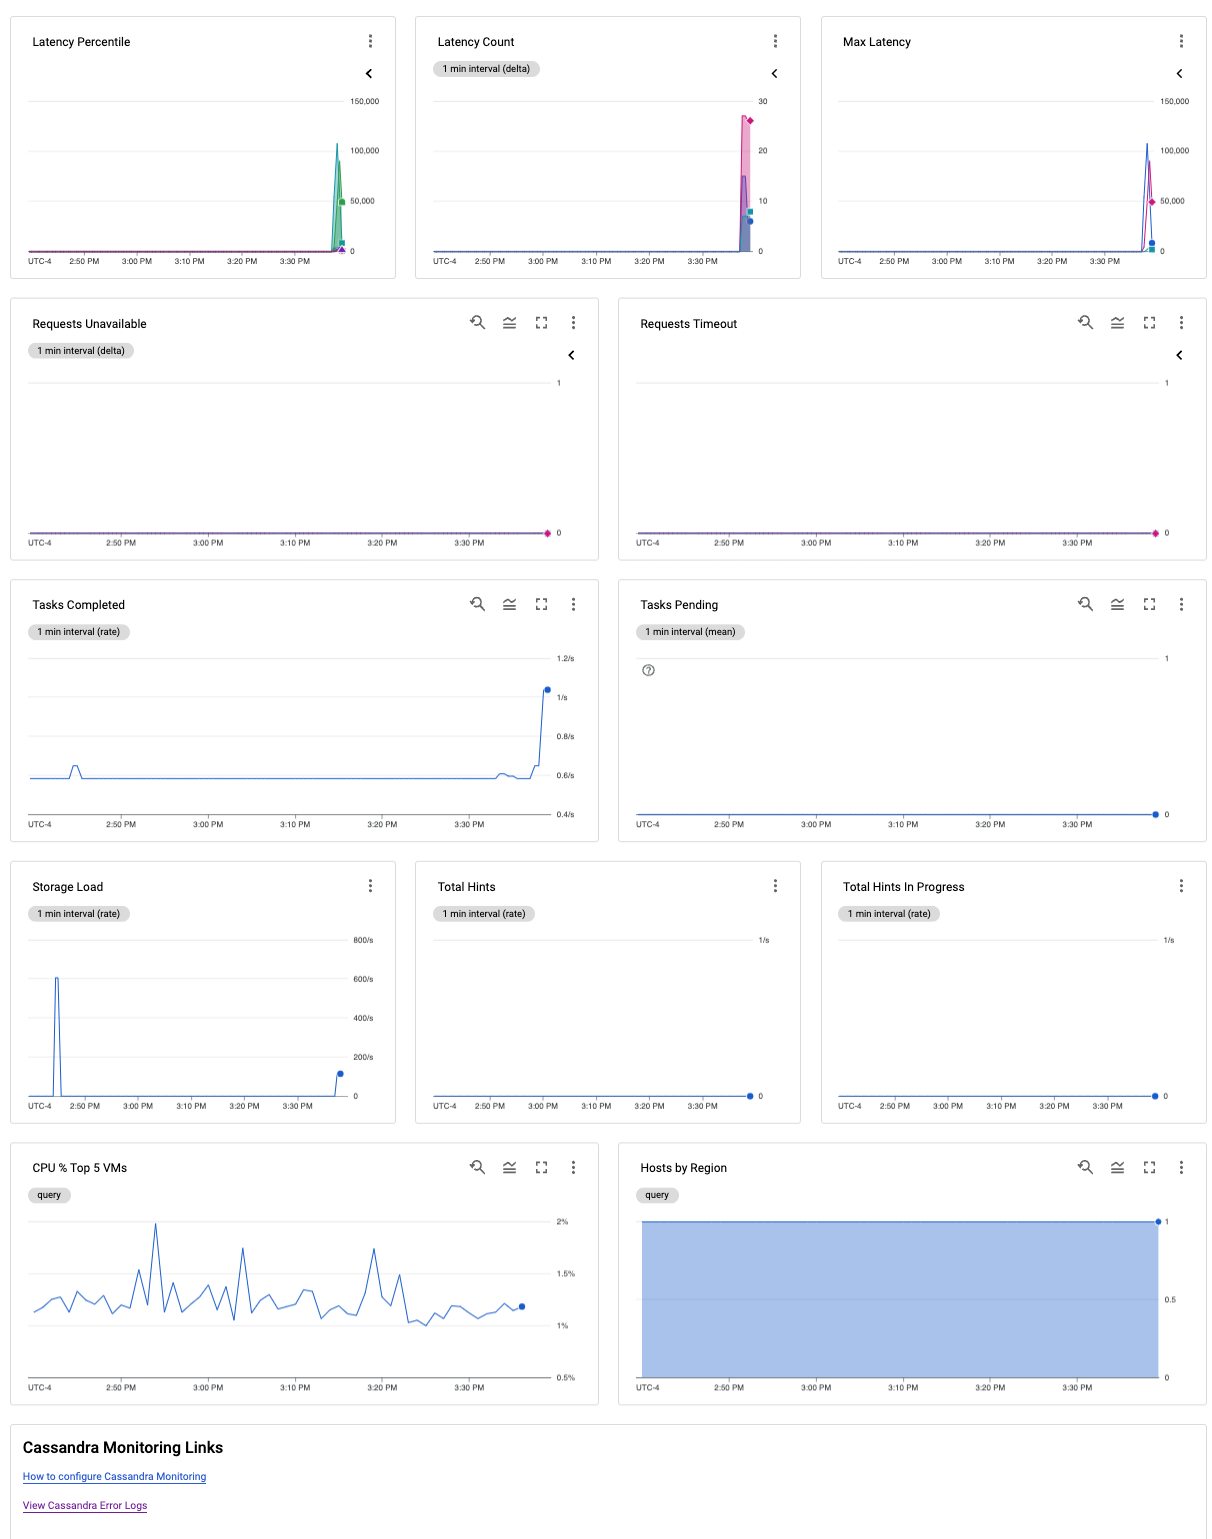
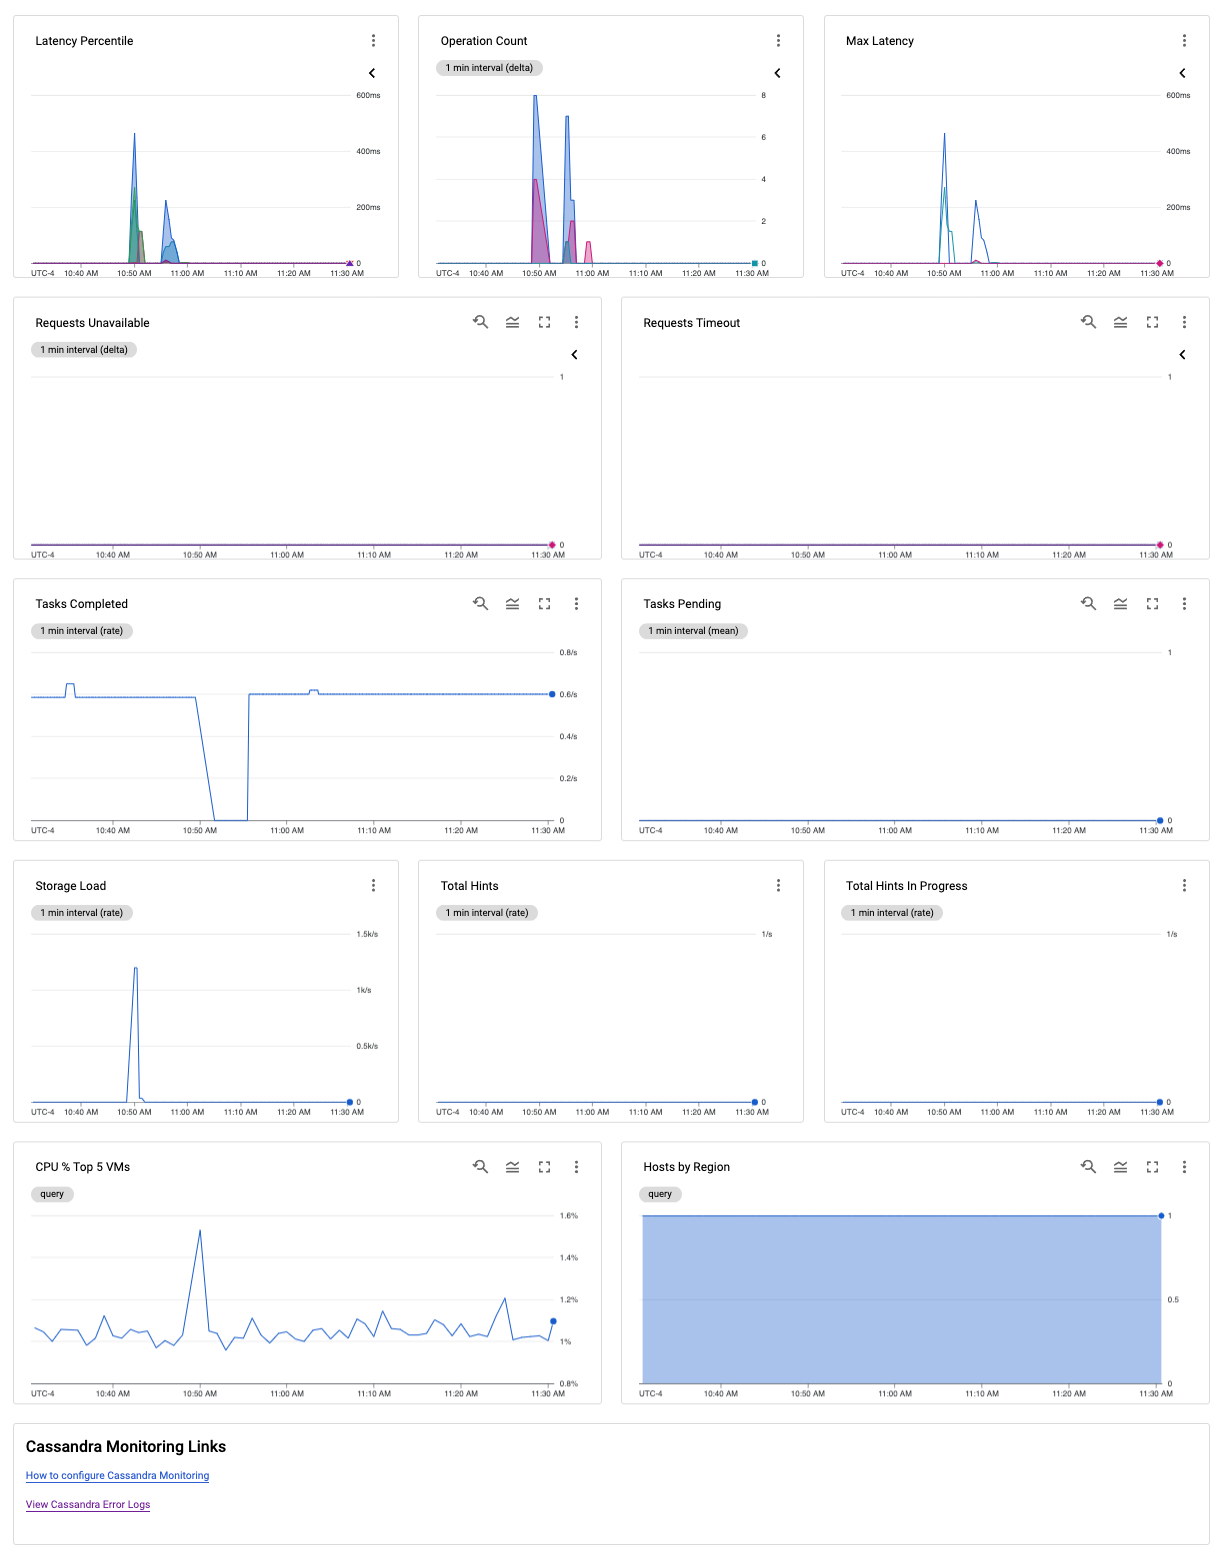
update units

diff --git a/dashboards/cassandra/README.md b/dashboards/cassandra/README.md
@@ -9,4 +9,4 @@
 |:------------------|
 |Filename: [cassandra-gce-overview.json](cassandra-gce-overview.json)|
 |This dashboard has 12 charts for viewing Cassandra when monitored by 
-[Google's Ops Agent](https://cloud.google.com/stackdriver/docs/solutions/agents/ops-agent/third-party/cassandra#monitored-metrics), including `Latency Percentile`, `Latency Count`, `Max Latency`, `Requests Unavailable`, `Requests Timeout`, `Tasks Completed`, `Tasks Pending`, `Storage Load`, `Total Hints`, `Total Hints In Progress`, `CPU % Top 5 VMs`, and `Hosts by Region`.
+[Google's Ops Agent](https://cloud.google.com/stackdriver/docs/solutions/agents/ops-agent/third-party/cassandra#monitored-metrics), including `Latency Percentile`, `Operation Count`, `Max Latency`, `Requests Unavailable`, `Requests Timeout`, `Tasks Completed`, `Tasks Pending`, `Storage Load`, `Total Hints`, `Total Hints In Progress`, `CPU % Top 5 VMs`, and `Hosts by Region`.
